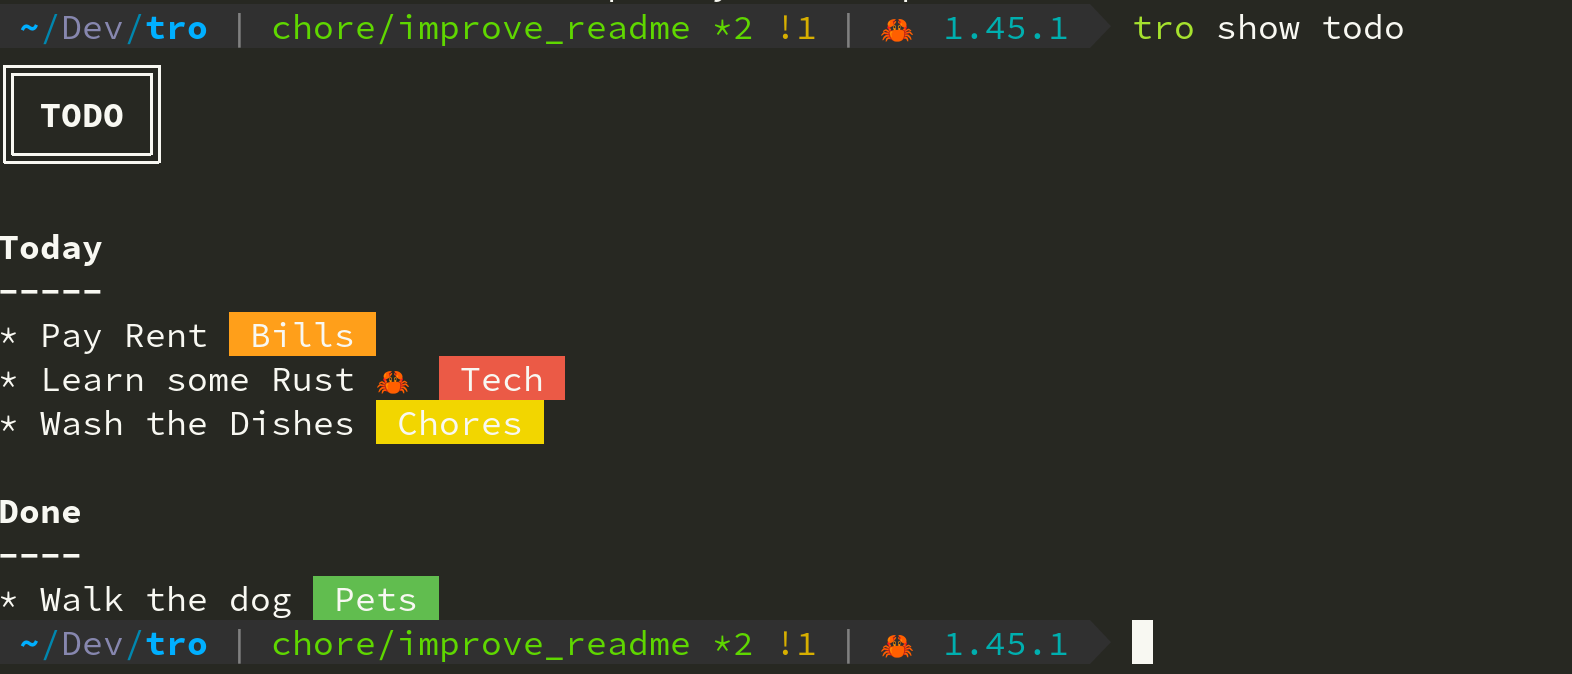
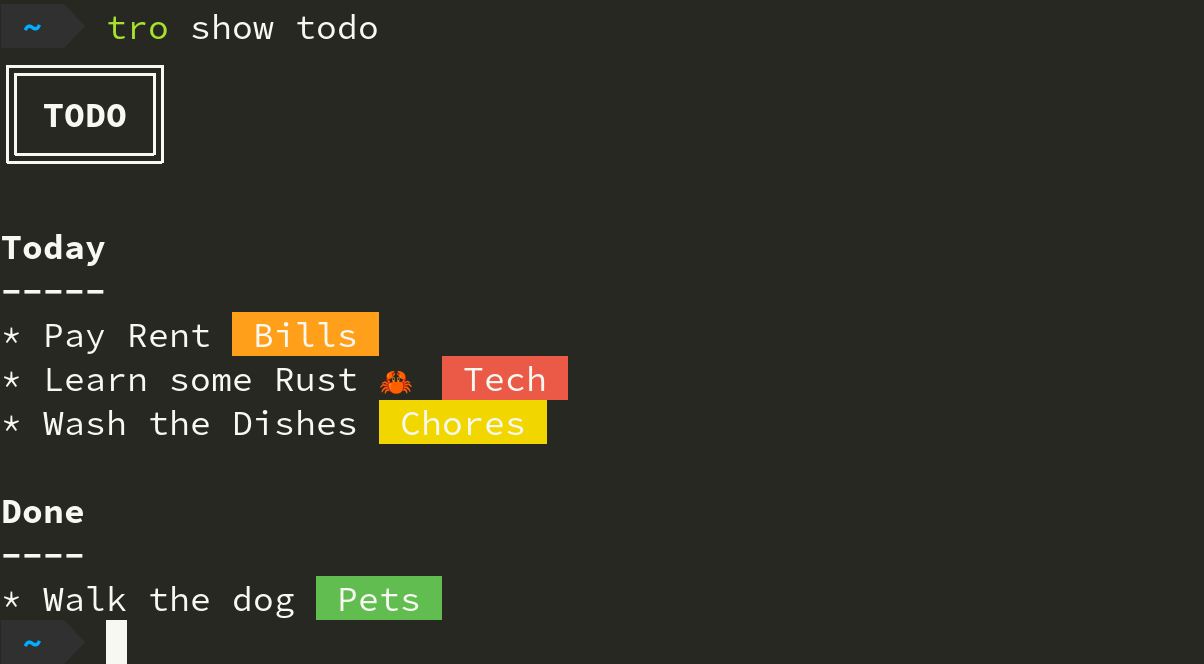
Simpler images in README

diff --git a/README.rst b/README.rst
@@ -5,7 +5,7 @@ TRO
 
 ``tro`` is a Trello API client for the command line written in rust.
 
-.. image:: assets/tro_show.png
+.. image:: assets/tro_show_board.png
    :width: 400
 
 Installation
